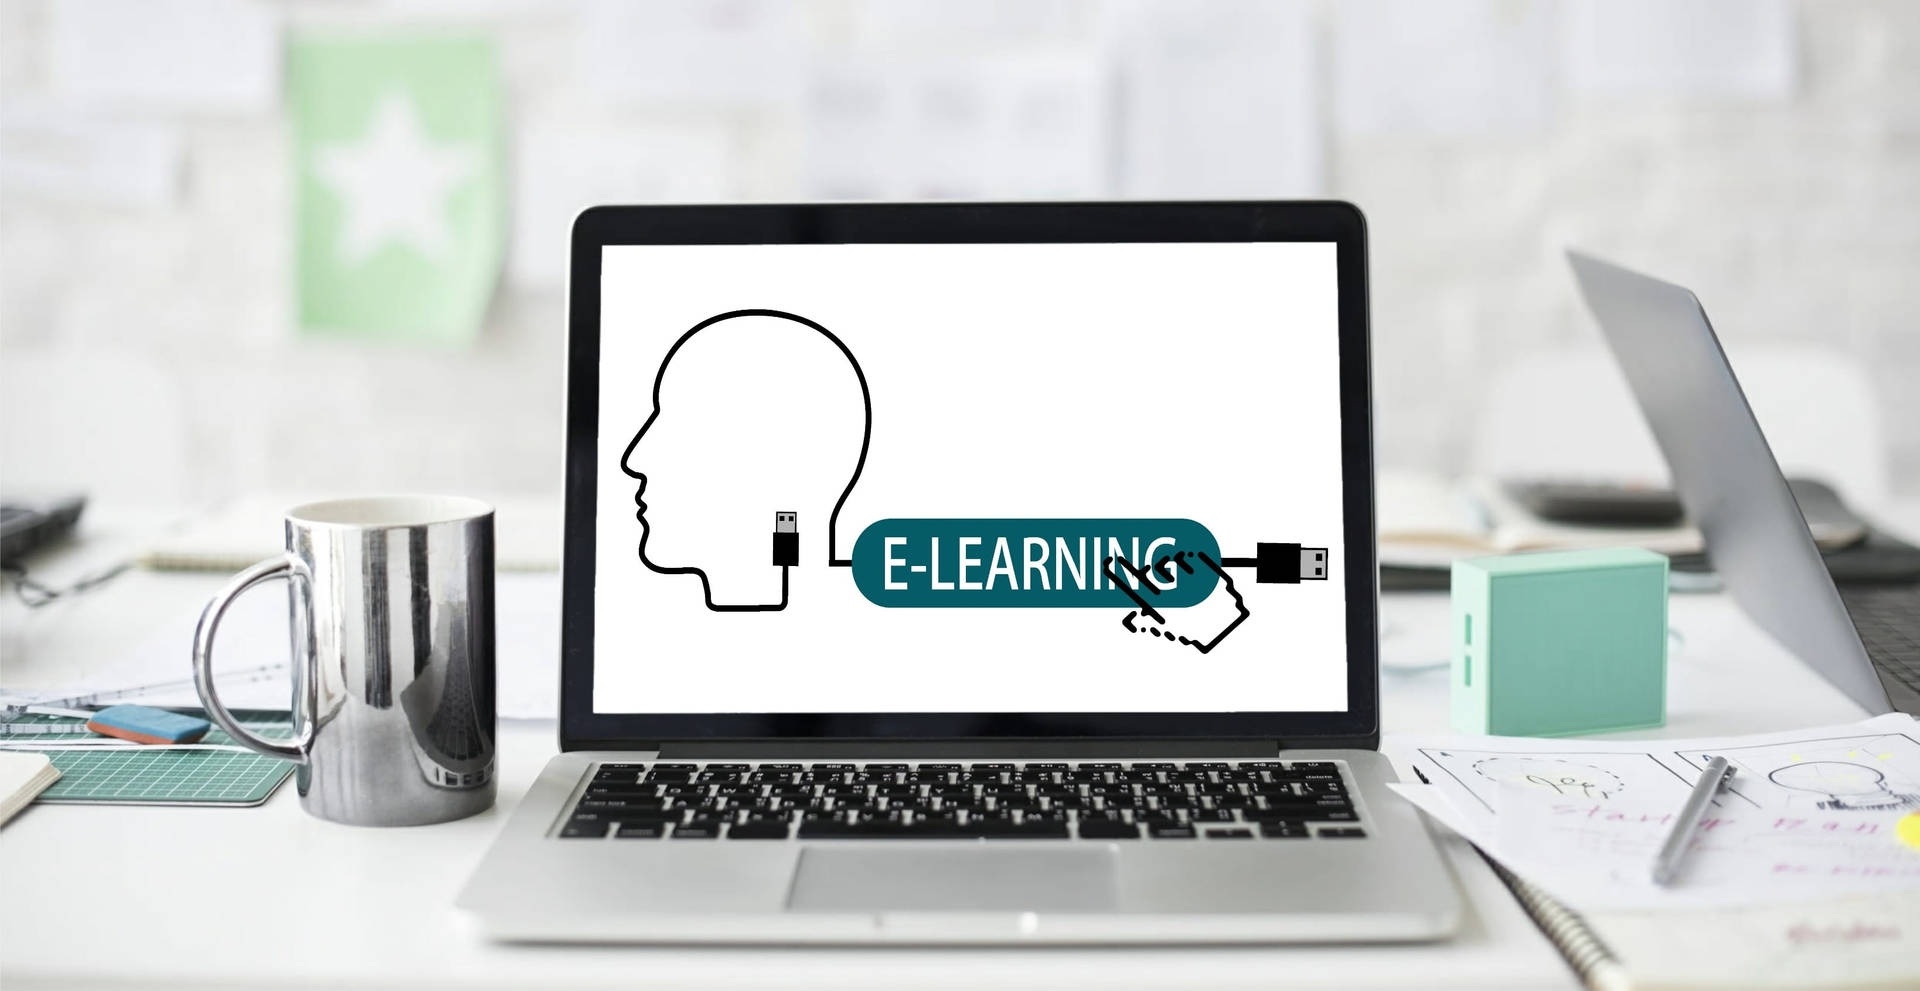
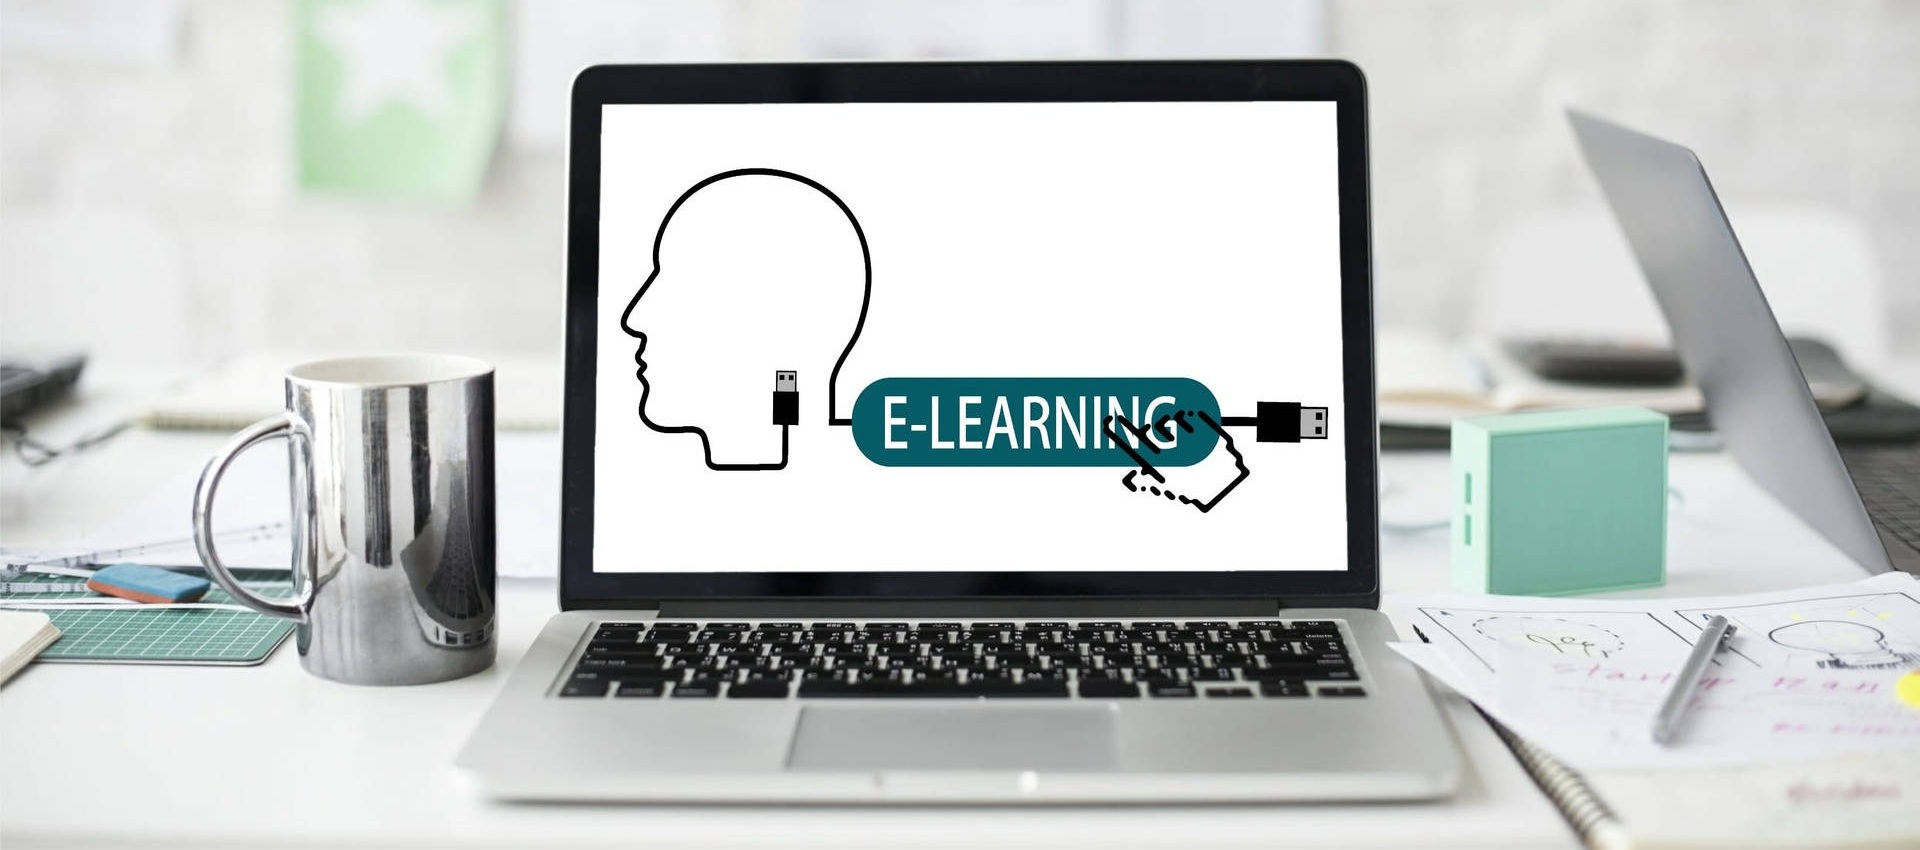
lastest lms fixed bug

diff --git a/include/scriptjs.html b/include/scriptjs.html
@@ -31,4 +31,47 @@
         document.body.appendChild(notifyDiv);
     }
 
+    function showLoading() {
+        if (document.getElementById('loading-overlay')) return; // ป้องกันซ้อนซ้ำ
+
+        const overlay = document.createElement('div');
+        overlay.id = 'loading-overlay';
+
+        const spinner = document.createElement('div');
+        spinner.id = 'loading-spinner';
+
+        overlay.appendChild(spinner);
+        document.body.appendChild(overlay);
+    }
+
+    function hideLoading() {
+        const overlay = document.getElementById('loading-overlay');
+        if (overlay) {
+            overlay.remove();
+        }
+    }
+
+    function showLoadingById(id) {
+        const el = document.getElementById(id);
+        if (!el) return;
+
+        if (el.querySelector('.loading-overlay')) return;
+
+        const overlay = document.createElement('div');
+        overlay.className = 'loading-overlay';
+
+        const spinner = document.createElement('div');
+        spinner.className = 'loading-spinner';
+
+        overlay.appendChild(spinner);
+        el.appendChild(overlay);
+    }
+
+    function hideLoadingById(id) {
+        const el = document.getElementById(id);
+        if (!el) return;
+
+        const overlay = el.querySelector('.loading-overlay');
+        if (overlay) overlay.remove();
+    }
 </script>

diff --git a/include/style.html b/include/style.html
@@ -40,6 +40,31 @@
         animation: shimmer 2.4s infinite;
     }
 
+    #loading-overlay {
+        position: fixed;
+        top: 0;
+        left: 0;
+        width: 100vw;
+        height: 100vh;
+        background-color: rgba(0, 0, 0, 0.7);
+        /* เบลอพื้นหลังแบบโปร่ง */
+        backdrop-filter: blur(4px);
+        /* ทำให้พื้นหลังเบลอ */
+        display: flex;
+        justify-content: center;
+        align-items: center;
+        z-index: 9999;
+    }
+
+    #loading-spinner {
+        border: 8px solid #f3f3f3;
+        border-top: 8px solid #3498db;
+        border-radius: 50%;
+        width: 60px;
+        height: 60px;
+        animation: spin 1s linear infinite;
+    }
+
     @keyframes shimmer {
         0% {
             background-position: 200% 0;
@@ -47,6 +72,16 @@
 
         100% {
             background-position: -200% 0;
+        }
+    }
+
+    @keyframes spin {
+        0% {
+            transform: rotate(0deg);
+        }
+
+        100% {
+            transform: rotate(360deg);
         }
     }
 
@@ -563,7 +598,7 @@
     .boxsq {
         width: 100%;
         max-width: 300px;
-        border: 1px  solid #30303020;
+        border: 1px solid #30303020;
     }
 
     .upload-box {

diff --git a/include/scriptjs-home.html b/include/scriptjs-home.html
@@ -2,6 +2,7 @@
 <script>
     // const id_list = ['slide01', 'slide02', 'slide03', 'icon01', 'icon02', 'icon03', 'icon04', 'icon05', 'icon06', 'icon07', 'icon08', 'icon09'];
     document.addEventListener('DOMContentLoaded', async () => {
+        showLoading();
         let response = await fetch("../config/Fetch_homeprofile.php");
         let json = await response.json();
         json = json[0];
@@ -16,6 +17,7 @@
             }
         });
 
+        hideLoading();
 
         const videoContainer = document.getElementById('youtube-video');
         const observer = new IntersectionObserver(entries => {
@@ -36,6 +38,7 @@
             });
         });
         observer.observe(videoContainer);
+
     });
 
 </script>

diff --git a/config/course_edit.php b/config/course_edit.php
@@ -74,11 +74,28 @@ if ($_SERVER["REQUEST_METHOD"] === "POST") {
                 $end_time = $select_end[$i];
                 $is_deleted_schedule = $is_deleted_schedule[$i];
 
-                // อัปเดตข้อมูล course
-                $sql_update_course = "UPDATE course_schedule SET course_id = ?, day_id = ?, start_time = ?, end_time = ?, is_deleted = ? WHERE id = ? ";
-                $stmt_schedule = $conn->prepare($sql_update_course);
-                $stmt_schedule->bind_param("iissii", $course_id, $day_id, $start_time, $end_time, $is_deleted_schedule, $id);
-                $stmt_schedule->execute();
+                $sql_check_schedule_each = "SELECT id FROM course_schedule WHERE id = ?";
+                $stmt_schedule_each = $conn->prepare($sql_check_schedule_each);
+                $stmt_schedule_each->bind_param("i", $id);
+                $stmt_schedule_each->execute();
+                $stmt_schedule_each->store_result();
+                if ($stmt_schedule_each->num_rows > 0) {
+                    // อัปเดตข้อมูล course
+                    $sql_update_course = "UPDATE course_schedule SET course_id = ?, day_id = ?, start_time = ?, end_time = ?, is_deleted = ? WHERE id = ? ";
+                    $stmt_schedule_update = $conn->prepare($sql_update_course);
+                    $stmt_schedule_update->bind_param("iissii", $course_id, $day_id, $start_time, $end_time, $is_deleted_schedule, $id);
+                    if (!$stmt_schedule_update->execute()) {
+                        die("Error executing schedule statement: " . $stmt_schedule_update->error);
+                    }
+                } else {
+                    // ✅ บันทึกข้อมูลลงในตาราง course_schedule
+                    $sql_schedule = "INSERT INTO course_schedule (course_id, day_id, start_time, end_time) VALUES (?, ?, ?, ?)";
+                    $stmt_schedule_insert = $conn->prepare($sql_schedule);
+                    $stmt_schedule_insert->bind_param("iiss", $course_id, $day_id, $start_time, $end_time);
+                    if (!$stmt_schedule_insert->execute()) {
+                        die("Error executing schedule statement: " . $stmt_schedule_insert->error);
+                    }
+                }
             }
         }
         $stmt_schedule->close();

diff --git a/pages/home.php b/pages/home.php
@@ -32,13 +32,13 @@ include '../components/session.php';
                         <!-- Slides -->
                         <div class="carousel-inner">
                             <div class="carousel-item active">
-                                <img id="slide01" class="d-block w-100" style="max-width: 1920px; max-height: 1080px;" alt="Slide 1">
+                                <img id="slide01" class="d-block w-100" style="max-width: 1920px; max-height: 75vh;" alt="Slide 1">
                             </div>
                             <div class="carousel-item">
-                                <img id="slide02" class="d-block w-100" style="max-width: 1920px; max-height: 1080px;" alt="Slide 2">
+                                <img id="slide02" class="d-block w-100" style="max-width: 1920px; max-height: 75vh;" alt="Slide 2">
                             </div>
                             <div class="carousel-item">
-                                <img id="slide03" class="d-block w-100" style="max-width: 1920px; max-height: 1080px;" alt="Slide 3">
+                                <img id="slide03" class="d-block w-100" style="max-width: 1920px; max-height: 75vh;" alt="Slide 3">
                             </div>
                         </div>
 

diff --git a/index.php b/index.php
@@ -1,0 +1,8 @@
+<?php if (!empty($_SERVER['HTTPS']) && ('on' == $_SERVER['HTTPS'])) {
+    $uri = 'https://';
+} else {
+    $uri = 'http://';
+}
+$uri .= $_SERVER['HTTP_HOST'];
+header('Location: ' . $uri . '/lms/pages/home.php');
+exit;
